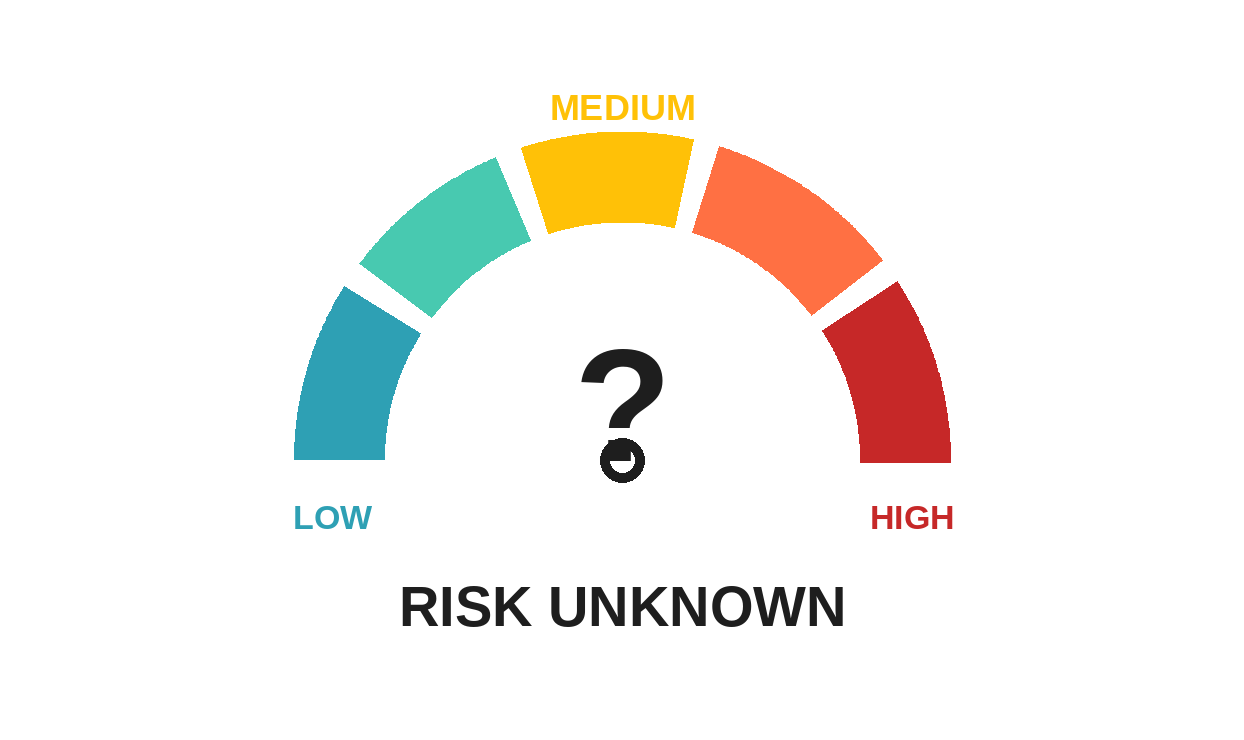
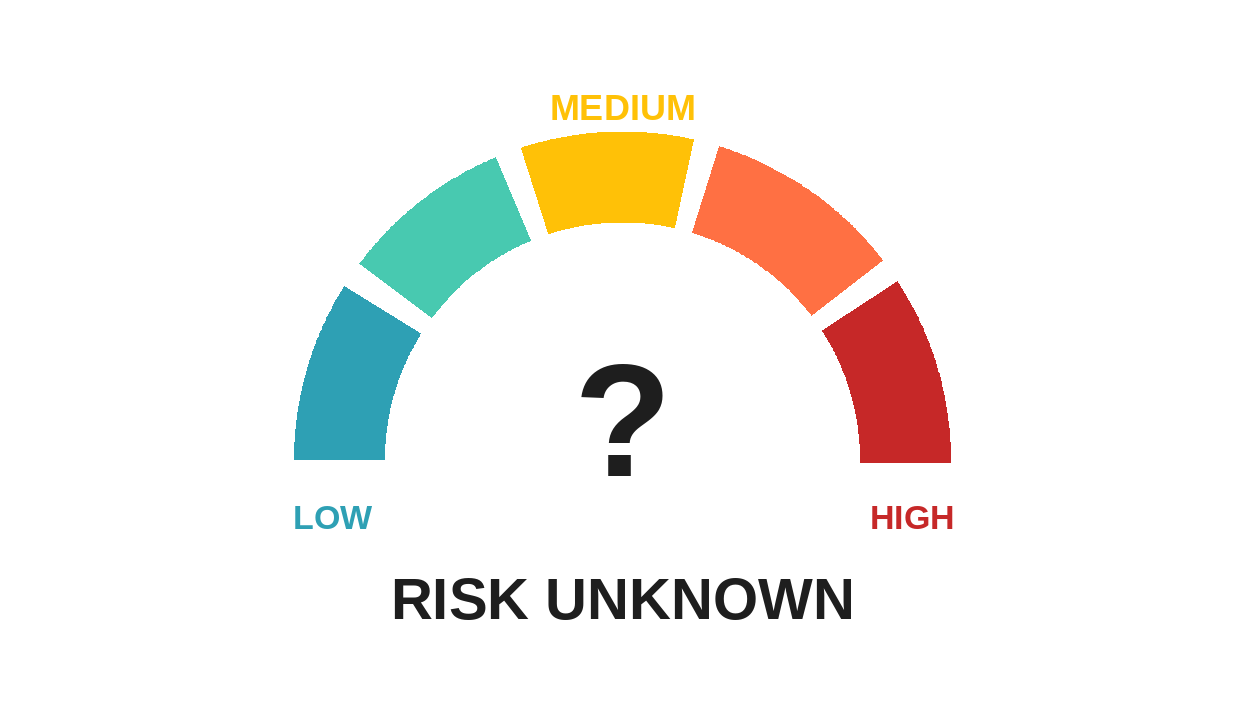
Add 'unknown' dish recognition

diff --git a/app_pages/home.py b/app_pages/home.py
@@ -126,6 +126,14 @@ if image_to_process is not None:
             notes = top.get("notes", "")
             questions = top.get("server_questions", [])
 
+            # Override all fields if confidence is very low (< 15%)
+            if confidence_pct < 20:
+                celiac_risk = "Unknown"
+                contains_gluten = None
+                notes = "Not recognised due to low confidence"
+                questions = []
+                top["label"] = "Unknown"
+
             gluten_text = "Yes" if contains_gluten is True else ("No" if contains_gluten is False else "Uncertain")
 
             # -------------------------------------------------------------
@@ -156,7 +164,7 @@ if image_to_process is not None:
                         "Medium": "assets/risk_score/mid.png",
                         "Mid": "assets/risk_score/mid.png",
                         "Low": "assets/risk_score/low.png",
-                        "Unknown": "assets/risk_score/unknown",
+                        "Unknown": "assets/risk_score/unknown.png",
                     }
                     risk_img_path = risk_images.get(celiac_risk, None)
                     if risk_img_path and os.path.exists(risk_img_path):

diff --git a/app_pages/how_it_works.py b/app_pages/how_it_works.py
@@ -29,19 +29,8 @@ with col_text1:
 
 with col_img1:
     with st.container(border=True):
-        st.caption("📷 **AI Dish Detection Preview**")
-        # Visual mock plate representation
-        st.markdown(
-            """
-            <div style="position: relative; background: linear-gradient(135deg, #f0fdf4 0%, #e0f2fe 100%); padding: 24px; border-radius: 12px; text-align: center; border: 1px solid #e2e8f0;">
-                <div style="font-size: 80px; line-height: 1; margin-bottom: 12px; filter: drop-shadow(0px 8px 12px rgba(0,0,0,0.1));">🍝</div>
-                <div style="display: inline-block; background-color: #059669; color: white; padding: 6px 14px; border-radius: 20px; font-weight: 600; font-size: 0.9rem; box-shadow: 0 4px 6px -1px rgba(0, 0, 0, 0.1);">
-                    ✓ Detected: Pasta Carbonara <span style="opacity: 0.85; font-size: 0.8rem; font-weight: 400;">(98.4%)</span>
-                </div>
-            </div>
-            """,
-            unsafe_allow_html=True,
-        )
+        st.caption("📷 **Grad-CAM visualization**")
+        st.image("assets/GRAD-CAM.png", width=500)
 
 st.markdown("##")
 
